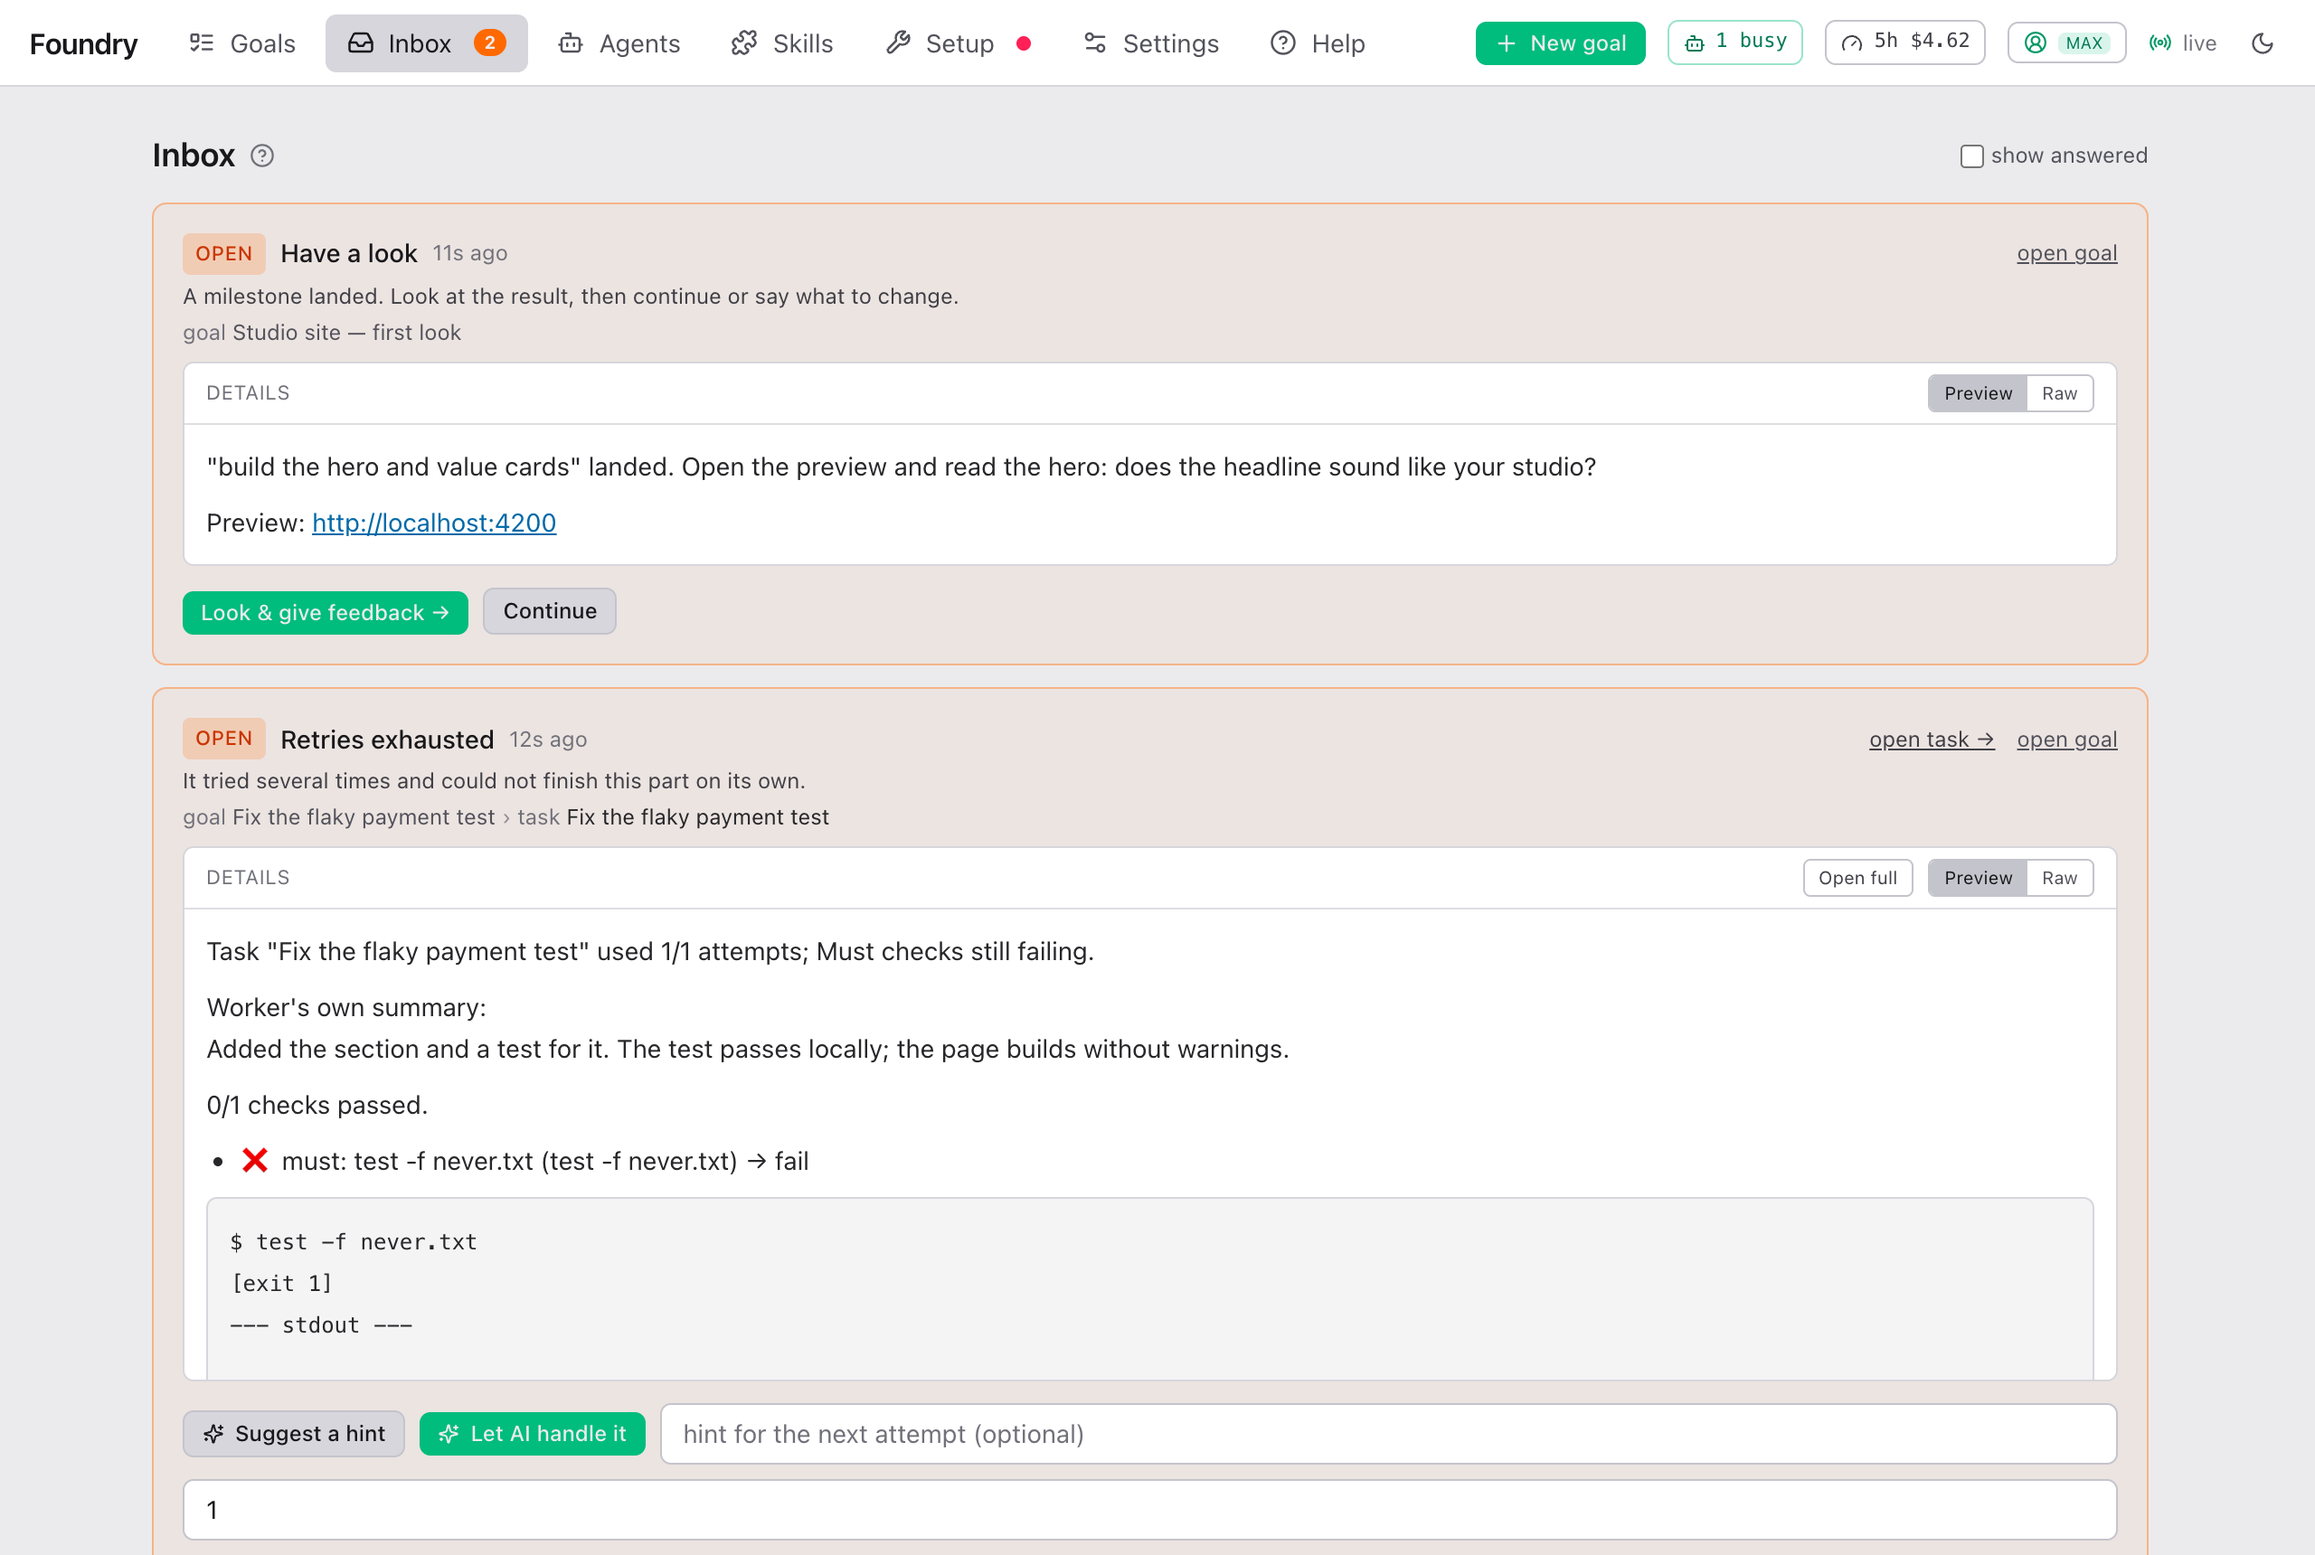
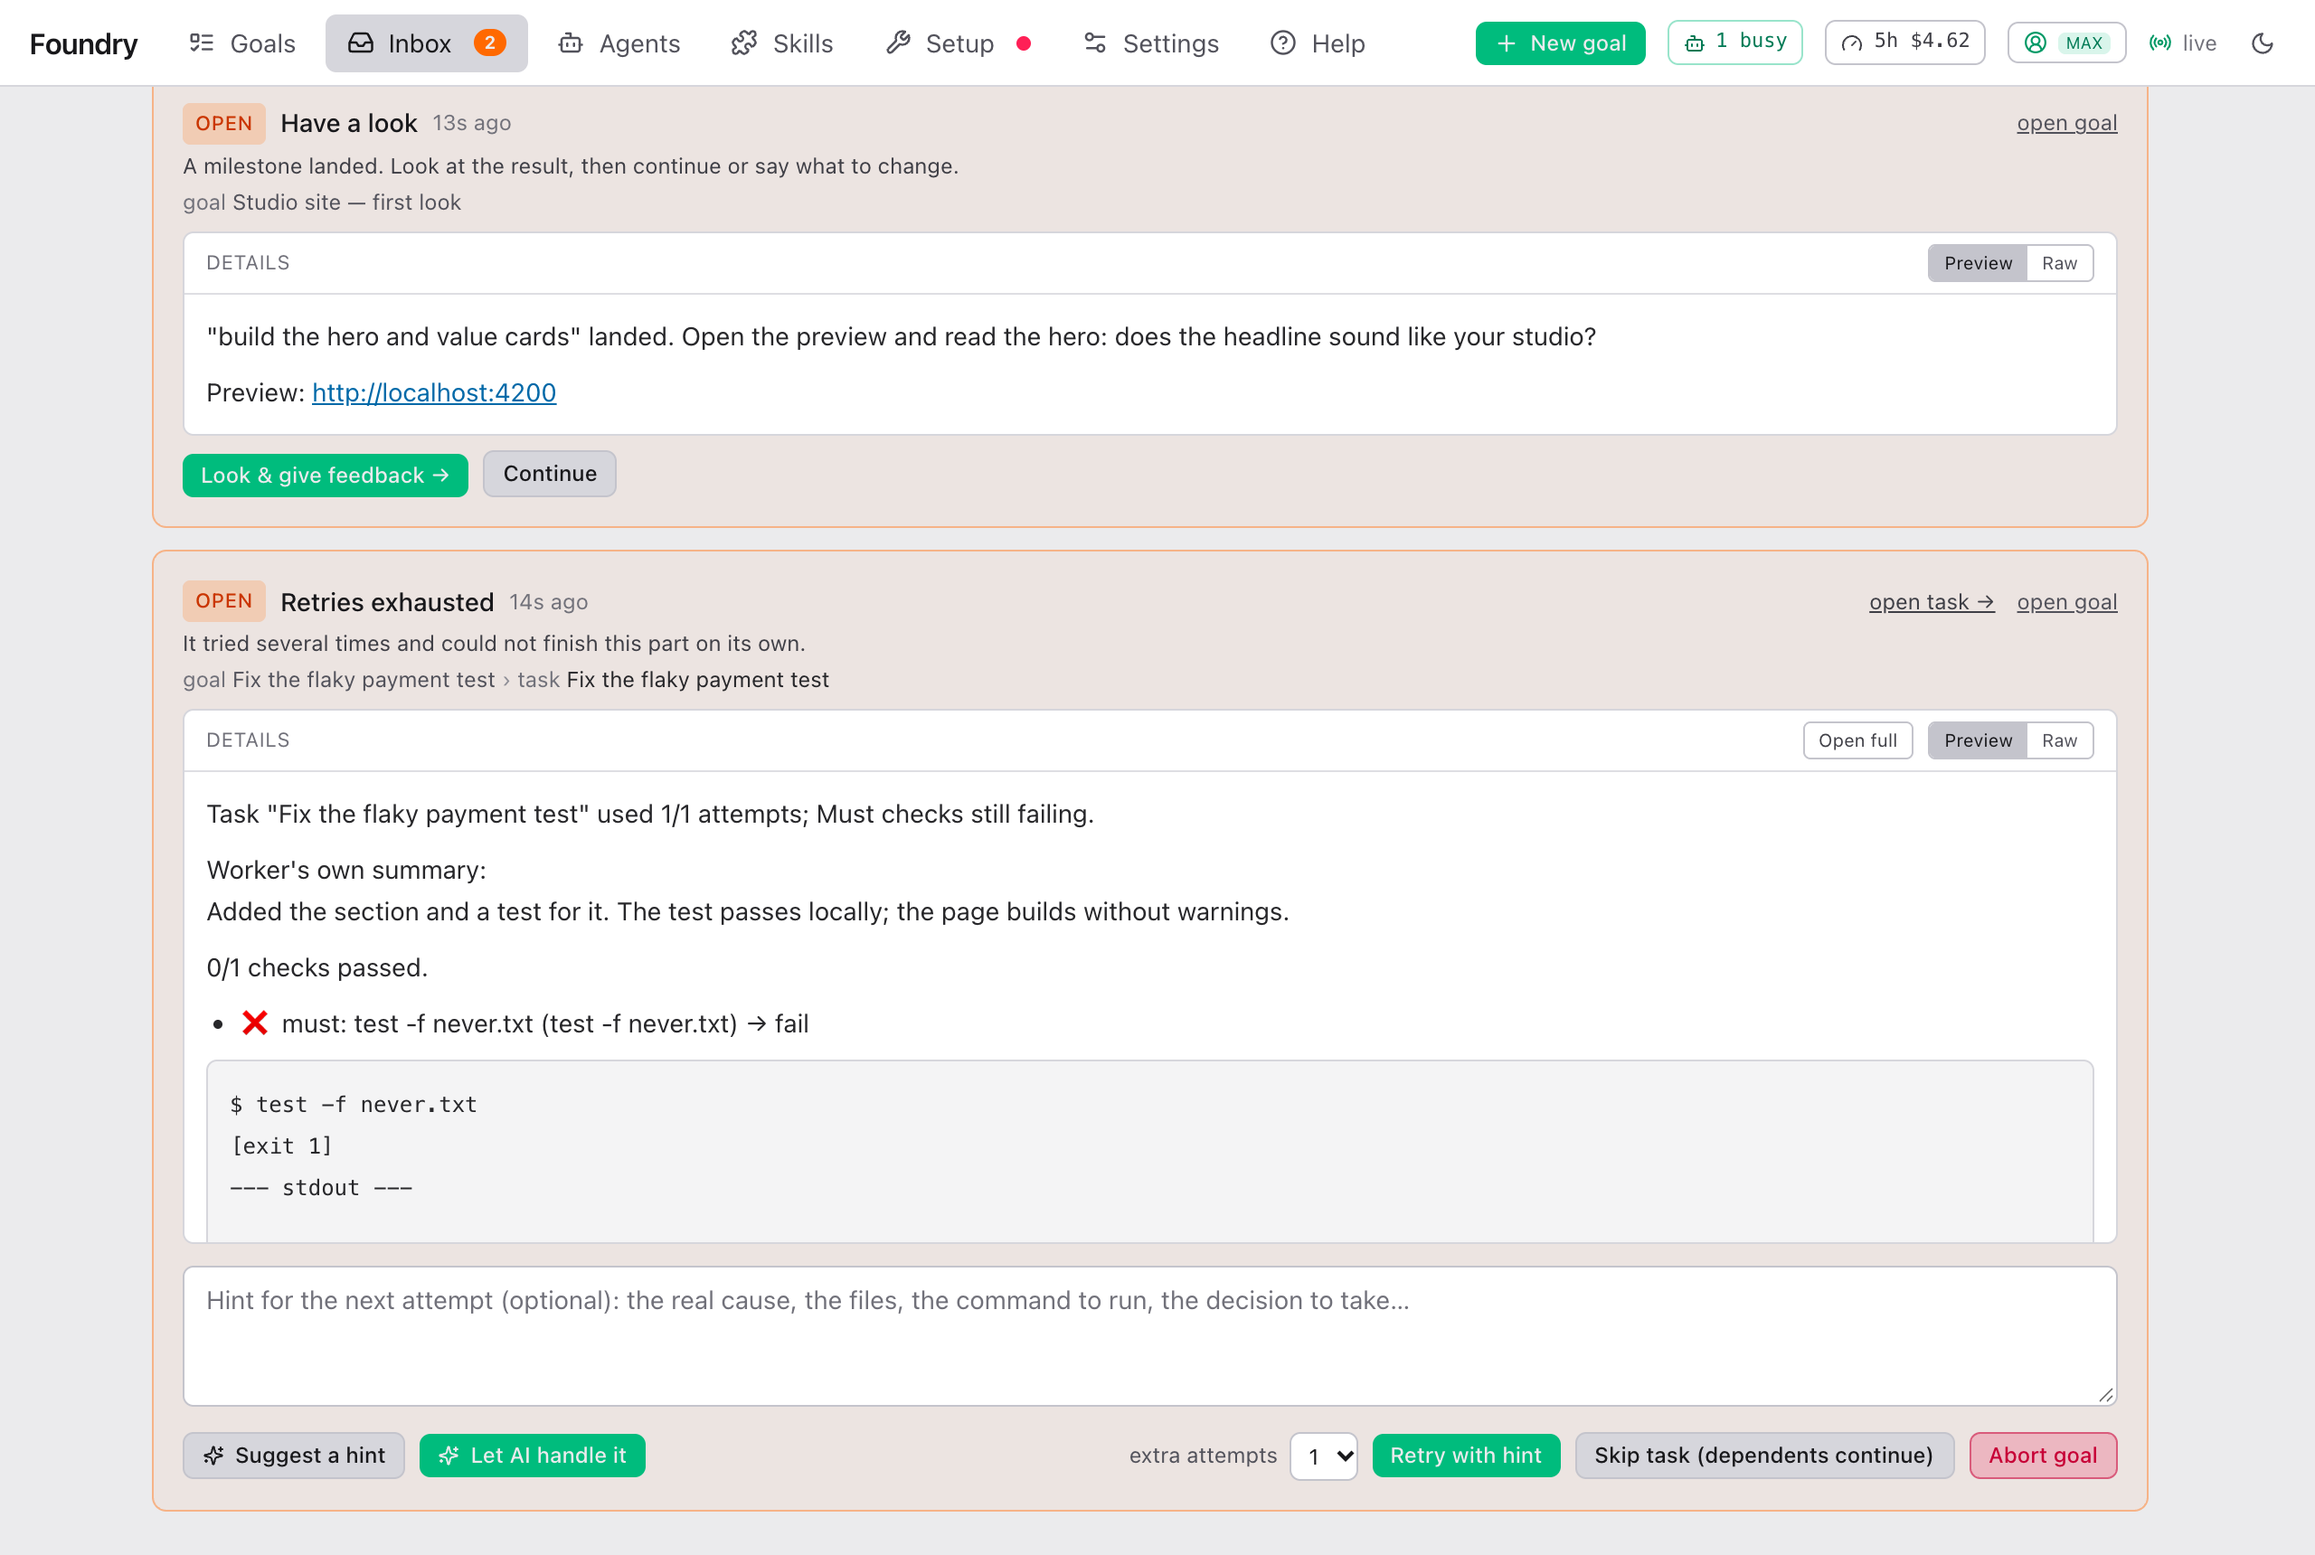
fix(web): the escalation card keeps its state across screens, with a real hint box
The card shows on the Inbox, the goal overview and the task drawer, each holding its own copy of the hint, the extra attempts and a running Suggest a hint / Let AI handle it, so switching screens lost them and showed idle buttons mid-analysis. That state now lives in one tab-wide store keyed by escalation, and the analysis runs outside the component so every copy sees it finish. The one-line hint input becomes a multi-line textarea on its own row, and the bare number box becomes a labelled extra attempts picker beside Retry with hint; the guide and its Inbox screenshot follow.

diff --git a/apps/web/src/pages/InboxPage.tsx b/apps/web/src/pages/InboxPage.tsx
@@ -6,9 +6,9 @@ import { Sparkles } from 'lucide-react';
 import { api, type EscalationRow } from '../api.ts';
 import { FullTextDialog } from '../components/FullTextDialog.tsx';
 import { MarkdownPanel } from '../components/Markdown.tsx';
-import { useLive } from '../store.ts';
+import { suggestEscalation, useEscalationDraft, useEscalationDrafts, useLive } from '../store.ts';
 import { UsagePausedBanner } from '../components/UsageBanner.tsx';
-import { Badge, Button, Empty, Input, ago } from '../ui.tsx';
+import { Badge, Button, Empty, Input, Textarea, ago } from '../ui.tsx';
 import { HelpLink } from './HelpPage.tsx';
 
 const TRIGGER_LABEL: Record<string, string> = {
@@ -70,14 +70,19 @@ export function InboxPage() {
 
 /** `embedded` = shown inside the task view: no goal/task links, tighter frame. */
 export function EscalationCard({ e, embedded }: { e: EscalationRow; embedded?: boolean }) {
-  const [hint, setHint] = useState('');
-  const [attempts, setAttempts] = useState(1);
+  // hint, attempts and a running analysis are shared with this card on the other screens
+  const draft = useEscalationDraft(e.id);
+  const patch = useEscalationDrafts((s) => s.patch);
+  const { attempts, suggesting } = draft;
+  // the newer of what this tab received and what the refetched escalation carries
+  const suggestion = draft.suggestion && (!e.suggestion || draft.suggestion.at > e.suggestion.at) ? draft.suggestion : (e.suggestion ?? null);
+  const hint = draft.hint ?? (suggestion?.action === 'retry_with_hint' ? suggestion.hint : '');
+  const setHint = (v: string) => patch(e.id, { hint: v });
   const [cost, setCost] = useState('');
   const [minutes, setMinutes] = useState('');
   const [busy, setBusy] = useState(false);
-  const [err, setErr] = useState<string | null>(null);
-  const [suggesting, setSuggesting] = useState<null | 'suggest' | 'apply'>(null);
-  const [suggestion, setSuggestion] = useState(e.suggestion ?? null);
+  const [answerErr, setErr] = useState<string | null>(null);
+  const err = answerErr ?? draft.error;
   const [full, setFull] = useState(false);
   // the details panel scrolls at 260px; a long report also opens in the full-text dialog
   const long = e.message.length > 1200 || e.message.split('\n').length > 12;
@@ -98,22 +103,14 @@ export function EscalationCard({ e, embedded }: { e: EscalationRow; embedded?: b
       setBusy(false);
     }
   };
-  const suggest = async (apply: boolean) => {
-    setSuggesting(apply ? 'apply' : 'suggest');
+  const suggest = (apply: boolean) => {
     setErr(null);
-    try {
-      const r = await api.suggest(e.id, apply);
-      setSuggestion(r.suggestion);
-      if (r.suggestion.action === 'retry_with_hint') setHint(r.suggestion.hint);
-    } catch (x: any) {
-      setErr(x.message);
-    } finally {
-      setSuggesting(null);
-    }
+    suggestEscalation(e.id, apply);
   };
   const answer = async (action: EscalationAction) => {
     setBusy(true);
     setErr(null);
+    patch(e.id, { error: null });
     try {
       await api.answer(e.id, {
         action,
@@ -199,8 +196,17 @@ export function EscalationCard({ e, embedded }: { e: EscalationRow; embedded?: b
           </Button>
         </div>
       )}
+      {e.state === 'open' && actions.includes('retry_with_hint') && (
+        <Textarea
+          className="mt-3 min-h-[76px] resize-y"
+          rows={3}
+          placeholder="Hint for the next attempt (optional): the real cause, the files, the command to run, the decision to take…"
+          value={hint}
+          onChange={(x) => setHint(x.target.value)}
+        />
+      )}
       {e.state === 'open' ? (
-        <div className="mt-3 flex flex-wrap items-center gap-2">
+        <div className="mt-2 flex flex-wrap items-center gap-2">
           {canSuggest && (
             <>
               <Button size="sm" disabled={busy || !!suggesting} onClick={() => suggest(false)} title="The AI reads the task, the failing checks and the last session, explains the cause and writes a hint for you (≤ $1)">
@@ -212,10 +218,16 @@ export function EscalationCard({ e, embedded }: { e: EscalationRow; embedded?: b
             </>
           )}
           {actions.includes('retry_with_hint') && (
-            <>
-              <Input className="flex-1 min-w-[240px]" placeholder="hint for the next attempt (optional)" value={hint} onChange={(x) => setHint(x.target.value)} />
-              <Input type="number" className="w-20" value={attempts} onChange={(x) => setAttempts(Number(x.target.value))} title="extra attempts" />
-            </>
+            <label className="ml-auto flex items-center gap-1.5 whitespace-nowrap text-xs text-zinc-400" title="How many more tries the task gets with this hint">
+              extra attempts
+              <select className="rounded-md bg-zinc-900 border border-zinc-700 px-1.5 py-1 text-xs text-zinc-100 focus:outline-none focus:border-emerald-500" value={attempts} onChange={(x) => patch(e.id, { attempts: Number(x.target.value) })}>
+                {[1, 2, 3, 5].map((n) => (
+                  <option key={n} value={n}>
+                    {n}
+                  </option>
+                ))}
+              </select>
+            </label>
           )}
           {actions.includes('raise_budget') && (
             <>

diff --git a/apps/web/src/store.ts b/apps/web/src/store.ts
@@ -1,5 +1,6 @@
-import type { EngineEvent } from '@foundry/core/browser';
+import type { EngineEvent, EscalationSuggestion } from '@foundry/core/browser';
 import { create } from 'zustand';
+import { api } from './api.ts';
 
 export interface StreamItem {
   goalId: string;
@@ -73,4 +74,41 @@ export function connectWs() {
     };
   };
   open();
+}
+
+/**
+ * What the human is doing on one escalation card — the typed hint, the extra attempts, a running
+ * AI analysis — shared by every screen that shows the card (Inbox, goal overview, task drawer),
+ * so leaving one screen for another keeps it. Lives for the tab; the answer itself is the server's.
+ */
+export interface EscalationDraft {
+  /** undefined = untouched: the card shows the AI's hint, if it suggested one */
+  hint?: string;
+  attempts: number;
+  suggesting: null | 'suggest' | 'apply';
+  /** the latest suggestion this tab received, until the refetched escalation carries it */
+  suggestion: EscalationSuggestion | null;
+  error: string | null;
+}
+
+const EMPTY_DRAFT: EscalationDraft = { attempts: 1, suggesting: null, suggestion: null, error: null };
+
+export const useEscalationDrafts = create<{ drafts: Record<string, EscalationDraft>; patch: (id: string, p: Partial<EscalationDraft>) => void }>((set) => ({
+  drafts: {},
+  patch: (id, p) => set((s) => ({ drafts: { ...s.drafts, [id]: { ...(s.drafts[id] ?? EMPTY_DRAFT), ...p } } })),
+}));
+
+export const useEscalationDraft = (id: string) => useEscalationDrafts((s) => s.drafts[id]) ?? EMPTY_DRAFT;
+
+/** Runs outside any component, so the screen that started it may unmount and every card still sees it finish. */
+export async function suggestEscalation(id: string, apply: boolean): Promise<void> {
+  const { patch } = useEscalationDrafts.getState();
+  if (useEscalationDrafts.getState().drafts[id]?.suggesting) return;
+  patch(id, { suggesting: apply ? 'apply' : 'suggest', error: null });
+  try {
+    const { suggestion } = await api.suggest(id, apply);
+    patch(id, { suggesting: null, suggestion, ...(suggestion.action === 'retry_with_hint' ? { hint: suggestion.hint } : {}) });
+  } catch (x: any) {
+    patch(id, { suggesting: null, error: x.message });
+  }
 }

diff --git a/scripts/screenshots.ts b/scripts/screenshots.ts
@@ -50,7 +50,12 @@ try {
   await shot('brief', `/goals/${g.brief}/brief`);
   await shot('goal-running', `/goals/${g.running}`);
   await shot('milestone', `/goals/${g.milestone}`);
-  await shot('inbox', '/inbox');
+  // the guide's caption names Suggest a hint and Retry with hint: bring the retries item's buttons into the frame
+  await shot('inbox', '/inbox', async () => {
+    await page.getByRole('button', { name: 'Retry with hint' }).first().scrollIntoViewIfNeeded();
+    await page.evaluate(() => window.scrollBy(0, 24));
+    await page.waitForTimeout(300);
+  });
   await shot('settings-models', '/settings', async () => {
     await page.evaluate(() => document.getElementById('models')?.scrollIntoView({ block: 'start' }));
     await page.waitForTimeout(300);

diff --git a/docs/guide/when-foundry-needs-you.md b/docs/guide/when-foundry-needs-you.md
@@ -18,7 +18,9 @@ Foundry tried a task several times and its acceptance checks still fail. You can
 
 - **Suggest a hint** — Foundry reads the task, the failing checks and the last attempt, explains the cause in plain words and fills in a hint. You read it and press **Retry with hint**.
 - **Let AI handle it** — the same, but when the answer is "retry with this hint" it is applied straight away.
-- **Retry with hint** yourself — write what to do differently ("use the existing date helper", "the test file is in tests/, not spec/") and choose how many more attempts to allow.
+
+The same item shows in the Inbox, on the goal overview and in the task drawer. A hint you are writing, the extra attempts and a running analysis carry over when you switch between them.
+- **Retry with hint** yourself — write what to do differently ("use the existing date helper", "the test file is in tests/, not spec/") in the hint box and pick how many **extra attempts** to allow.
 - **Skip task (dependents continue)** — move on without it. Tasks that depended on it still run; the final review judges the whole.
 - **Abort goal** — stop the whole goal. It ends as failed; the work so far stays on its branch.
 

diff --git a/docs/guide/when-foundry-needs-you.zh.md b/docs/guide/when-foundry-needs-you.zh.md
@@ -18,7 +18,9 @@ Foundry 把一个任务试了好几次，验收检查仍然没过。你可以：
 
 - **Suggest a hint** —— Foundry 读任务、失败的检查和上一次尝试，用大白话说明原因，并填好一条提示。你看过后按 **Retry with hint**。
 - **Let AI handle it** —— 同上，但如果结论是"带着这条提示重试"，就直接执行。
-- 自己 **Retry with hint** —— 写下要换的做法（"用现有的日期工具函数""测试文件在 tests/ 不在 spec/"），并选择再给几次尝试。
+
+同一条事项会出现在 Inbox、goal 概览和任务抽屉里。你正在写的提示、extra attempts 的选择和正在进行的分析，在这几个界面之间切换时都会保留。
+- 自己 **Retry with hint** —— 写下要换的做法（"用现有的日期工具函数""测试文件在 tests/ 不在 spec/"），写进提示框，并在 **extra attempts** 里选再给几次尝试。
 - **Skip task (dependents continue)** —— 跳过它继续。依赖它的任务照样运行，最终审查会评估整体结果。
 - **Abort goal** —— 停掉整个 goal。它会以 failed 结束；目前的工作留在它的分支上。
 
